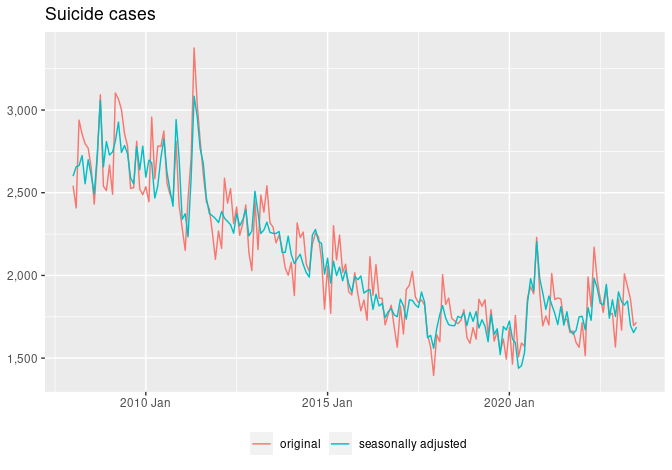
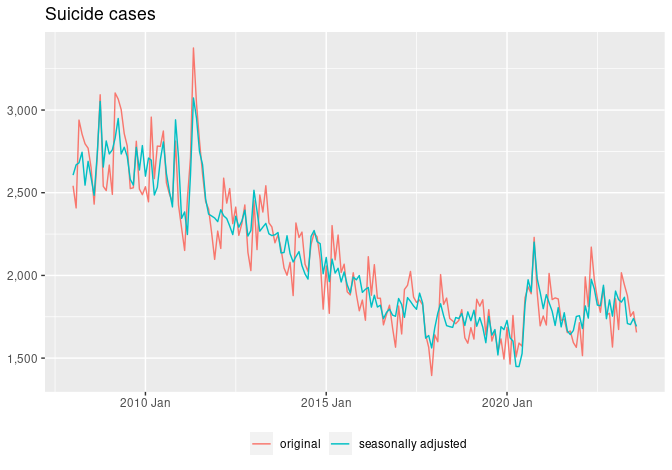
update August 2023 cases

Changed region(s): [[0.0938, 0.1191, 0.9688, 0.8043], [0.7188, 0.834, 0.8125, 0.8638], [0.4375, 0.834, 0.5312, 0.8638]]

diff --git a/README.md b/README.md
@@ -10,7 +10,7 @@ Mitsuo Shiota
 - [Suicide cases are bouncing back, but not as fast as the program
   suggests](#suicide-cases-are-bouncing-back-but-not-as-fast-as-the-program-suggests)
 
-Updated: 2023-08-29
+Updated: 2023-09-20
 
 ## Motivation
 
